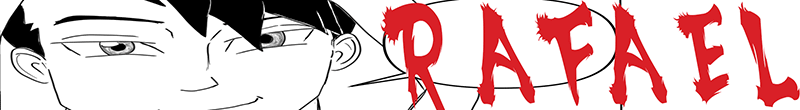
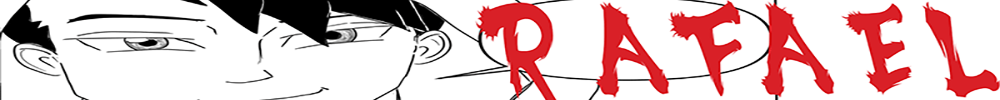
margins and images size change

diff --git a/index.html b/index.html
@@ -22,7 +22,7 @@
 <li><a href="index.html">home</a></li>
 <li><a href="about.html">About</a></li>		
 <li><a href="characters.html">Characters</a></li>
-<li><a href="conceptart.html">Concept Art</a></li>
+<li><a href="concept art.html">Concept Art</a></li>
 <li><a href="contact.html">Contact</a></li>
 	
 			
@@ -35,11 +35,13 @@
 		<br>
 		
 		<div class="flexcontainer" style="display: flex">
-	<article class="left"><p><img src="images/final-animation-gif-(1).gif"></p></article>
+	<article class="left"><p><img src="images/final-animation-gif-(1).gif"> Maybe the wolf is in love with the moon, and each month, it cries for a love it will never reach...
+		<br>
+		― Anonymous</p></article>
 		
 	<article class="right"><p> Project Obsidian is the current name of my web series that I started many years ago.</p>
 		
-		<p>Lorem ipsum dolor sit amet, consectetur adipisicing elit. Eius hic aperiam quisquam eveniet labore, libero, exercitationem ipsa maxime itaque. Asperiores saepe atque laboriosam magnam deleniti totam cum suscipit.&#128513;</p></article>
+		<p>Lorem ipsum dolor sit amet, consectetur adipisicing elit. Eius hic aperiam quisquam eveniet labore, libero, exercitationem ipsa maxime itaque. Asperiores saepe atque laboriosam magnam deleniti totam com suscipit.&#128513;</p></article>
 		
 		<br>
 		<br>
@@ -47,23 +49,7 @@
 		<br>
 		<br>
 		</div>
-		<form action="">
 		
-
-		<p> Which character would you want a figure of first?</p><br>
-		
-		   <input type="radio" id="Rafa" name="Figure">
-		<label for="Rafa">Rafa</label><br> 
-			<input type="radio" id="Azure" name="Figure">
-		<label for="Azure">Azure</label><br>
-			<input type="radio" id="Breeze" name="Figure">
-		<label for="Breeze">Breeze</label><br>
-			<input type="radio" id="Fenix" name="Figure">
-		<label for="Fenix">Fenix</label><br>
-		<br>
-			<button types="submit">Submit</button>
-			<input type="Reset">
-			</form>
 		<br>
 		<br> 
 		<br>

diff --git a/concept art.html b/concept art.html
@@ -35,9 +35,22 @@
 		<br>
 		
 		<div class="flexcontainer" style="display: flex">
-	<article class="left"><p><img src= "images/location gallery img copy.png" alt="concept art categories">
-		<img src="images/city gallery img copy.png" alt="more concept art cat">
-		<img src="images/world map concept copy.png" alt="third concept art cat">
+	<article class="left"><p><img src= "images/location gallery img copy.png" alt="concept art categories" usemap="#images/location gallery img copy.png">
+		<map name="images/location gallery img copy.png">
+			<area shape="rect" coords="2,0,562,228" alt="location gallery" href="">
+		</map>
+		
+	<img src="images/city gallery img copy.png" alt="more concept art cat" usemap="#images/city gallery img copy.png">
+		<map name="images/city gallery img copy.png">
+			<area shape="rect" coords="3,1,563,227" alt="city gallery" href="">
+		</map>
+		
+		<img src="images/world map concept copy.png" alt="third concept art cat" usemap="#images/world map concept copy.png">
+			<map name="images/world map concept copy.png">
+				<area shape="rect" coords="1,1,560,226" alt="world map so far" href="">
+		</map>
+				
+				
 			</p></article>
 		
 	

diff --git a/characters.html b/characters.html
@@ -35,10 +35,10 @@
 		<br>
 		
 		
-		<div class="flexcontainer" style="display: flex">
+		<div class="flexcontainer" style="display:flex">
 	<article class="left"><img src= "images/Character-Select-rafa.png" alt="Rafael" usemap="#images/Character-Select-rafa.png"> 
 		<map name="images/Character-Select-rafa.png">
-			<area shape="rect" coords="3,2,798,107" alt="Rafa link to profile" href="about.html">
+			<area shape="rect" coords="3,0.17,997,98" alt="Rafa link to profile" href="">
 		</map>
 		<img src="images/Character-Select-azure-locked.gif" alt="Azure locked">
 		<img src="images/Character-Select-breeze-locked.gif" alt="Breeze locked">

diff --git a/main.css b/main.css
@@ -155,13 +155,16 @@ font-style: italic;
 	border-radius: 0 20px 20px 0;
 }
 * {
-  box-sizing: border-box;
+  box-sizing:auto;
 }
 
 .row {
   display: flex;
 	background-color:rgba(212,210,210,0.87);
-	text-align: center
+	text-align: center;
+	
+	
+	
 }
 
 /* Create three equal columns that sits next to each other */
@@ -170,6 +173,7 @@ font-style: italic;
   flex: 50%;
   padding: 50px;
 	background-color:rgba(212,210,210,0.87);
+  
 
 
 }
